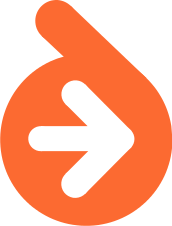
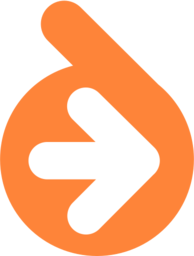
Doctrine img

diff --git a/pages/tds/td4_3.rst b/pages/tds/td4_3.rst
@@ -64,7 +64,7 @@ Import de la base de données
 Ecriture de requêtes
 ------------------------
 
-.. image:: /img/movie.png
+.. image:: /img/doctrine.png
     :class: right
 
 .. step::
